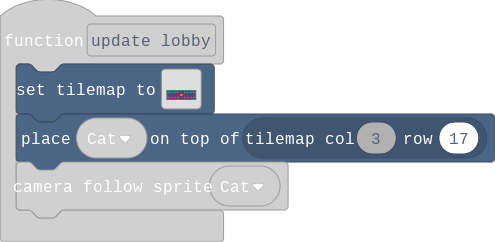
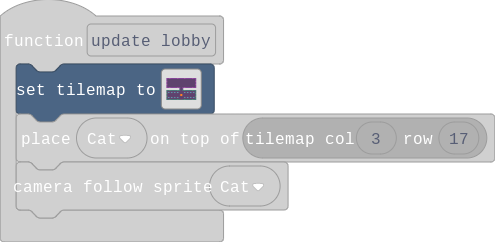
Update main.blocks, main.ts

Changed region(s): [[0.0303, 0.4628, 1.0, 0.7231], [0.3333, 0.3182, 0.4242, 0.376]]

diff --git a/main.ts b/main.ts
@@ -979,22 +979,22 @@ controller.combos.attachCombo("uudl", function () {
 })
 function update_lobby () {
     tiles.setTilemap(tiles.createTilemap(
[2 lines of base64/hex data omitted]
             img`
 2 2 2 2 2 2 2 2 2 2 2 2 2 2 2 2 2 2 2 2 2 2 2 2 2 2 2 2 2 2 2 2 
 2 2 2 2 2 2 2 2 2 2 2 2 2 2 2 2 2 2 2 2 2 2 2 2 2 2 2 2 2 2 2 2 
-2 2 2 2 2 2 2 2 2 2 2 2 2 2 2 2 2 2 2 2 2 2 2 2 2 2 2 2 2 2 2 2 
-2 2 2 2 2 2 2 2 2 2 2 2 2 2 2 2 2 2 2 2 2 2 2 2 2 2 2 2 2 2 2 2 
-2 2 2 2 2 2 2 2 2 2 2 2 2 2 2 2 2 2 2 2 2 2 2 2 2 2 2 2 2 2 2 2 
-2 2 2 2 2 2 2 2 2 2 2 2 2 2 2 2 2 2 2 2 2 2 2 2 2 2 2 2 2 2 2 2 
-2 2 2 2 2 2 2 2 2 2 2 2 2 2 2 2 2 2 2 2 2 2 2 2 2 2 2 2 2 2 2 2 
-2 2 2 2 2 2 2 2 2 2 2 2 2 2 2 2 2 2 2 2 2 2 2 2 2 2 2 2 2 2 2 2 
-2 2 2 2 2 2 2 2 2 2 2 2 2 2 2 2 2 2 2 2 2 2 2 2 2 2 2 2 2 2 2 2 
-2 2 2 2 2 2 2 2 2 2 2 2 2 2 2 2 2 2 2 2 2 2 2 2 2 2 2 2 2 2 2 2 
-2 2 2 2 2 2 2 2 2 2 2 2 2 2 2 2 2 2 2 2 2 2 2 2 2 2 2 2 2 2 2 2 
-2 2 2 2 2 2 2 2 2 2 2 2 2 2 2 2 2 2 2 2 2 2 2 2 2 2 2 2 2 2 2 2 
-2 2 2 2 2 2 2 2 2 2 2 2 2 2 2 2 2 2 2 2 2 2 2 2 2 2 2 2 2 2 2 2 
-2 2 2 2 2 2 2 2 2 2 2 2 2 2 2 2 2 2 2 2 2 2 2 2 2 2 2 2 2 2 2 2 
+2 2 . . . . . . . . . . . . . . . . . . . . . . . . . . . . 2 2 
+2 2 . . . . . . . . . . . . . . . . . . . . . . . . . . . . 2 2 
+2 2 . . . . . . . . . . . . . . . . . . . . . . . . . . . . 2 2 
+2 2 . . . . . . . . . . . . . . . . . . . . . . . . . . . . 2 2 
+2 2 . . . . . . . . . . . . . . . . . . . . . . . . . . . . 2 2 
+2 2 . . . . . . . . . . . . . . . . . . . . . . . . . . . . 2 2 
+2 2 . . . . . . . . . . . . . . . . . . . . . . . . . . . . 2 2 
+2 2 . . . . . . . . . . . . . . . . . . . . . . . . . . . . 2 2 
+2 2 2 2 2 2 2 2 2 2 2 2 2 2 2 . . 2 2 2 2 2 2 2 2 2 2 2 2 2 2 2 
+2 2 2 2 2 2 2 2 2 2 2 2 2 2 2 . . 2 2 2 2 2 2 2 2 2 2 2 2 2 2 2 
+2 2 2 2 2 2 2 2 2 2 2 2 2 2 2 . . 2 2 2 2 2 2 2 2 2 2 2 2 2 2 2 
+2 2 2 2 2 2 2 2 2 2 2 2 2 2 2 . . 2 2 2 2 2 2 2 2 2 2 2 2 2 2 2 
 2 2 . . . . . . . . . . . . . . . . . . . . . . . . . . . . 2 2 
 2 2 . . . . . . . . . . . . . . . . . . . . . . . . . . . . 2 2 
 2 2 . . . . . . . . . . . . . . . . . . . . . . . . . . . . 2 2 
@@ -1006,7 +1006,7 @@ function update_lobby () {
 2 2 2 2 2 2 2 2 2 2 2 2 2 2 2 . . 2 2 2 2 2 2 2 2 2 2 2 2 2 2 2 
 2 2 2 2 2 2 2 2 2 2 2 2 2 2 2 2 2 2 2 2 2 2 2 2 2 2 2 2 2 2 2 2 
 `,
-            [myTiles.tile0,myTiles.tile1,myTiles.tile2,myTiles.tile4,myTiles.tile6,myTiles.tile7,myTiles.tile8,sprites.dungeon.greenOuterNorthWest,sprites.dungeon.greenOuterNorth0,sprites.dungeon.greenOuterNorthEast,sprites.dungeon.greenOuterSouthWest,sprites.dungeon.greenOuterSouthEast,sprites.dungeon.greenOuterWest0,sprites.dungeon.greenOuterSouth1,sprites.dungeon.greenOuterEast0,sprites.dungeon.greenOuterSouth0,sprites.dungeon.greenOuterEast1,sprites.dungeon.greenOuterWest1,sprites.dungeon.greenOuterNorth1,sprites.dungeon.darkGroundCenter,sprites.dungeon.darkGroundWest,sprites.dungeon.greenOuterNorth2,sprites.dungeon.greenOuterEast2,sprites.dungeon.greenOuterSouth2,sprites.dungeon.greenOuterWest2,sprites.dungeon.darkGroundNorthWest1,sprites.dungeon.darkGroundNorthEast1,sprites.dungeon.darkGroundSouth,sprites.dungeon.collectibleRedCrystal,sprites.dungeon.collectibleInsignia,sprites.dungeon.darkGroundEast,sprites.dungeon.darkGroundNorth,sprites.dungeon.darkGroundSouthEast1,sprites.dungeon.darkGroundSouthWest1,sprites.dungeon.hazardLava0,sprites.dungeon.hazardLava1,myTiles.tile9,myTiles.tile10,myTiles.tile11,myTiles.tile12,myTiles.tile13,myTiles.tile14,myTiles.tile15,myTiles.tile16,myTiles.tile17,myTiles.tile18,myTiles.tile19,myTiles.tile20,myTiles.tile21,myTiles.tile22,myTiles.tile23,myTiles.tile24,sprites.dungeon.stairLadder,sprites.dungeon.stairNorth,sprites.dungeon.doorOpenSouth,sprites.dungeon.doorClosedSouth,sprites.dungeon.doorLockedSouth,sprites.dungeon.stairSouth,sprites.castle.tilePath5],
+            [myTiles.tile0,myTiles.tile1,myTiles.tile2,myTiles.tile4,myTiles.tile6,myTiles.tile7,myTiles.tile8,sprites.dungeon.greenOuterNorthWest,sprites.dungeon.greenOuterNorth0,sprites.dungeon.greenOuterNorthEast,sprites.dungeon.greenOuterSouthWest,sprites.dungeon.greenOuterSouthEast,sprites.dungeon.greenOuterWest0,sprites.dungeon.greenOuterSouth1,sprites.dungeon.greenOuterEast0,sprites.dungeon.greenOuterSouth0,sprites.dungeon.greenOuterEast1,sprites.dungeon.greenOuterWest1,sprites.dungeon.greenOuterNorth1,sprites.dungeon.darkGroundCenter,sprites.dungeon.darkGroundWest,sprites.dungeon.greenOuterNorth2,sprites.dungeon.greenOuterEast2,sprites.dungeon.greenOuterSouth2,sprites.dungeon.greenOuterWest2,sprites.dungeon.darkGroundNorthWest1,sprites.dungeon.darkGroundNorthEast1,sprites.dungeon.darkGroundSouth,sprites.dungeon.collectibleRedCrystal,sprites.dungeon.collectibleInsignia,sprites.dungeon.darkGroundEast,sprites.dungeon.darkGroundNorth,sprites.dungeon.darkGroundSouthEast1,sprites.dungeon.darkGroundSouthWest1,sprites.dungeon.hazardLava0,sprites.dungeon.hazardLava1,myTiles.tile9,myTiles.tile10,myTiles.tile11,myTiles.tile12,myTiles.tile13,myTiles.tile14,myTiles.tile15,myTiles.tile16,myTiles.tile17,myTiles.tile18,myTiles.tile19,myTiles.tile20,myTiles.tile21,myTiles.tile22,myTiles.tile23,myTiles.tile24,sprites.dungeon.stairLadder,sprites.dungeon.stairNorth,sprites.dungeon.doorOpenSouth,sprites.dungeon.doorClosedSouth,sprites.dungeon.doorLockedSouth,sprites.dungeon.stairSouth,sprites.castle.tilePath5,sprites.dungeon.purpleOuterNorthWest,sprites.dungeon.purpleOuterNorth0,sprites.dungeon.purpleOuterNorthEast,sprites.dungeon.purpleOuterWest0,sprites.dungeon.purpleOuterSouthEast,sprites.dungeon.purpleOuterSouth1,sprites.dungeon.purpleOuterSouthWest,sprites.dungeon.purpleOuterEast1,sprites.dungeon.purpleOuterNorth2,sprites.dungeon.purpleOuterSouth2,sprites.dungeon.purpleOuterEast2,sprites.dungeon.purpleOuterWest2,sprites.dungeon.purpleOuterSouth0,sprites.dungeon.purpleOuterWest1,sprites.dungeon.purpleOuterEast0,sprites.dungeon.purpleOuterNorth1],
             TileScale.Sixteen
         ))
     tiles.placeOnTile(Cat, tiles.getTileLocation(3, 17))
